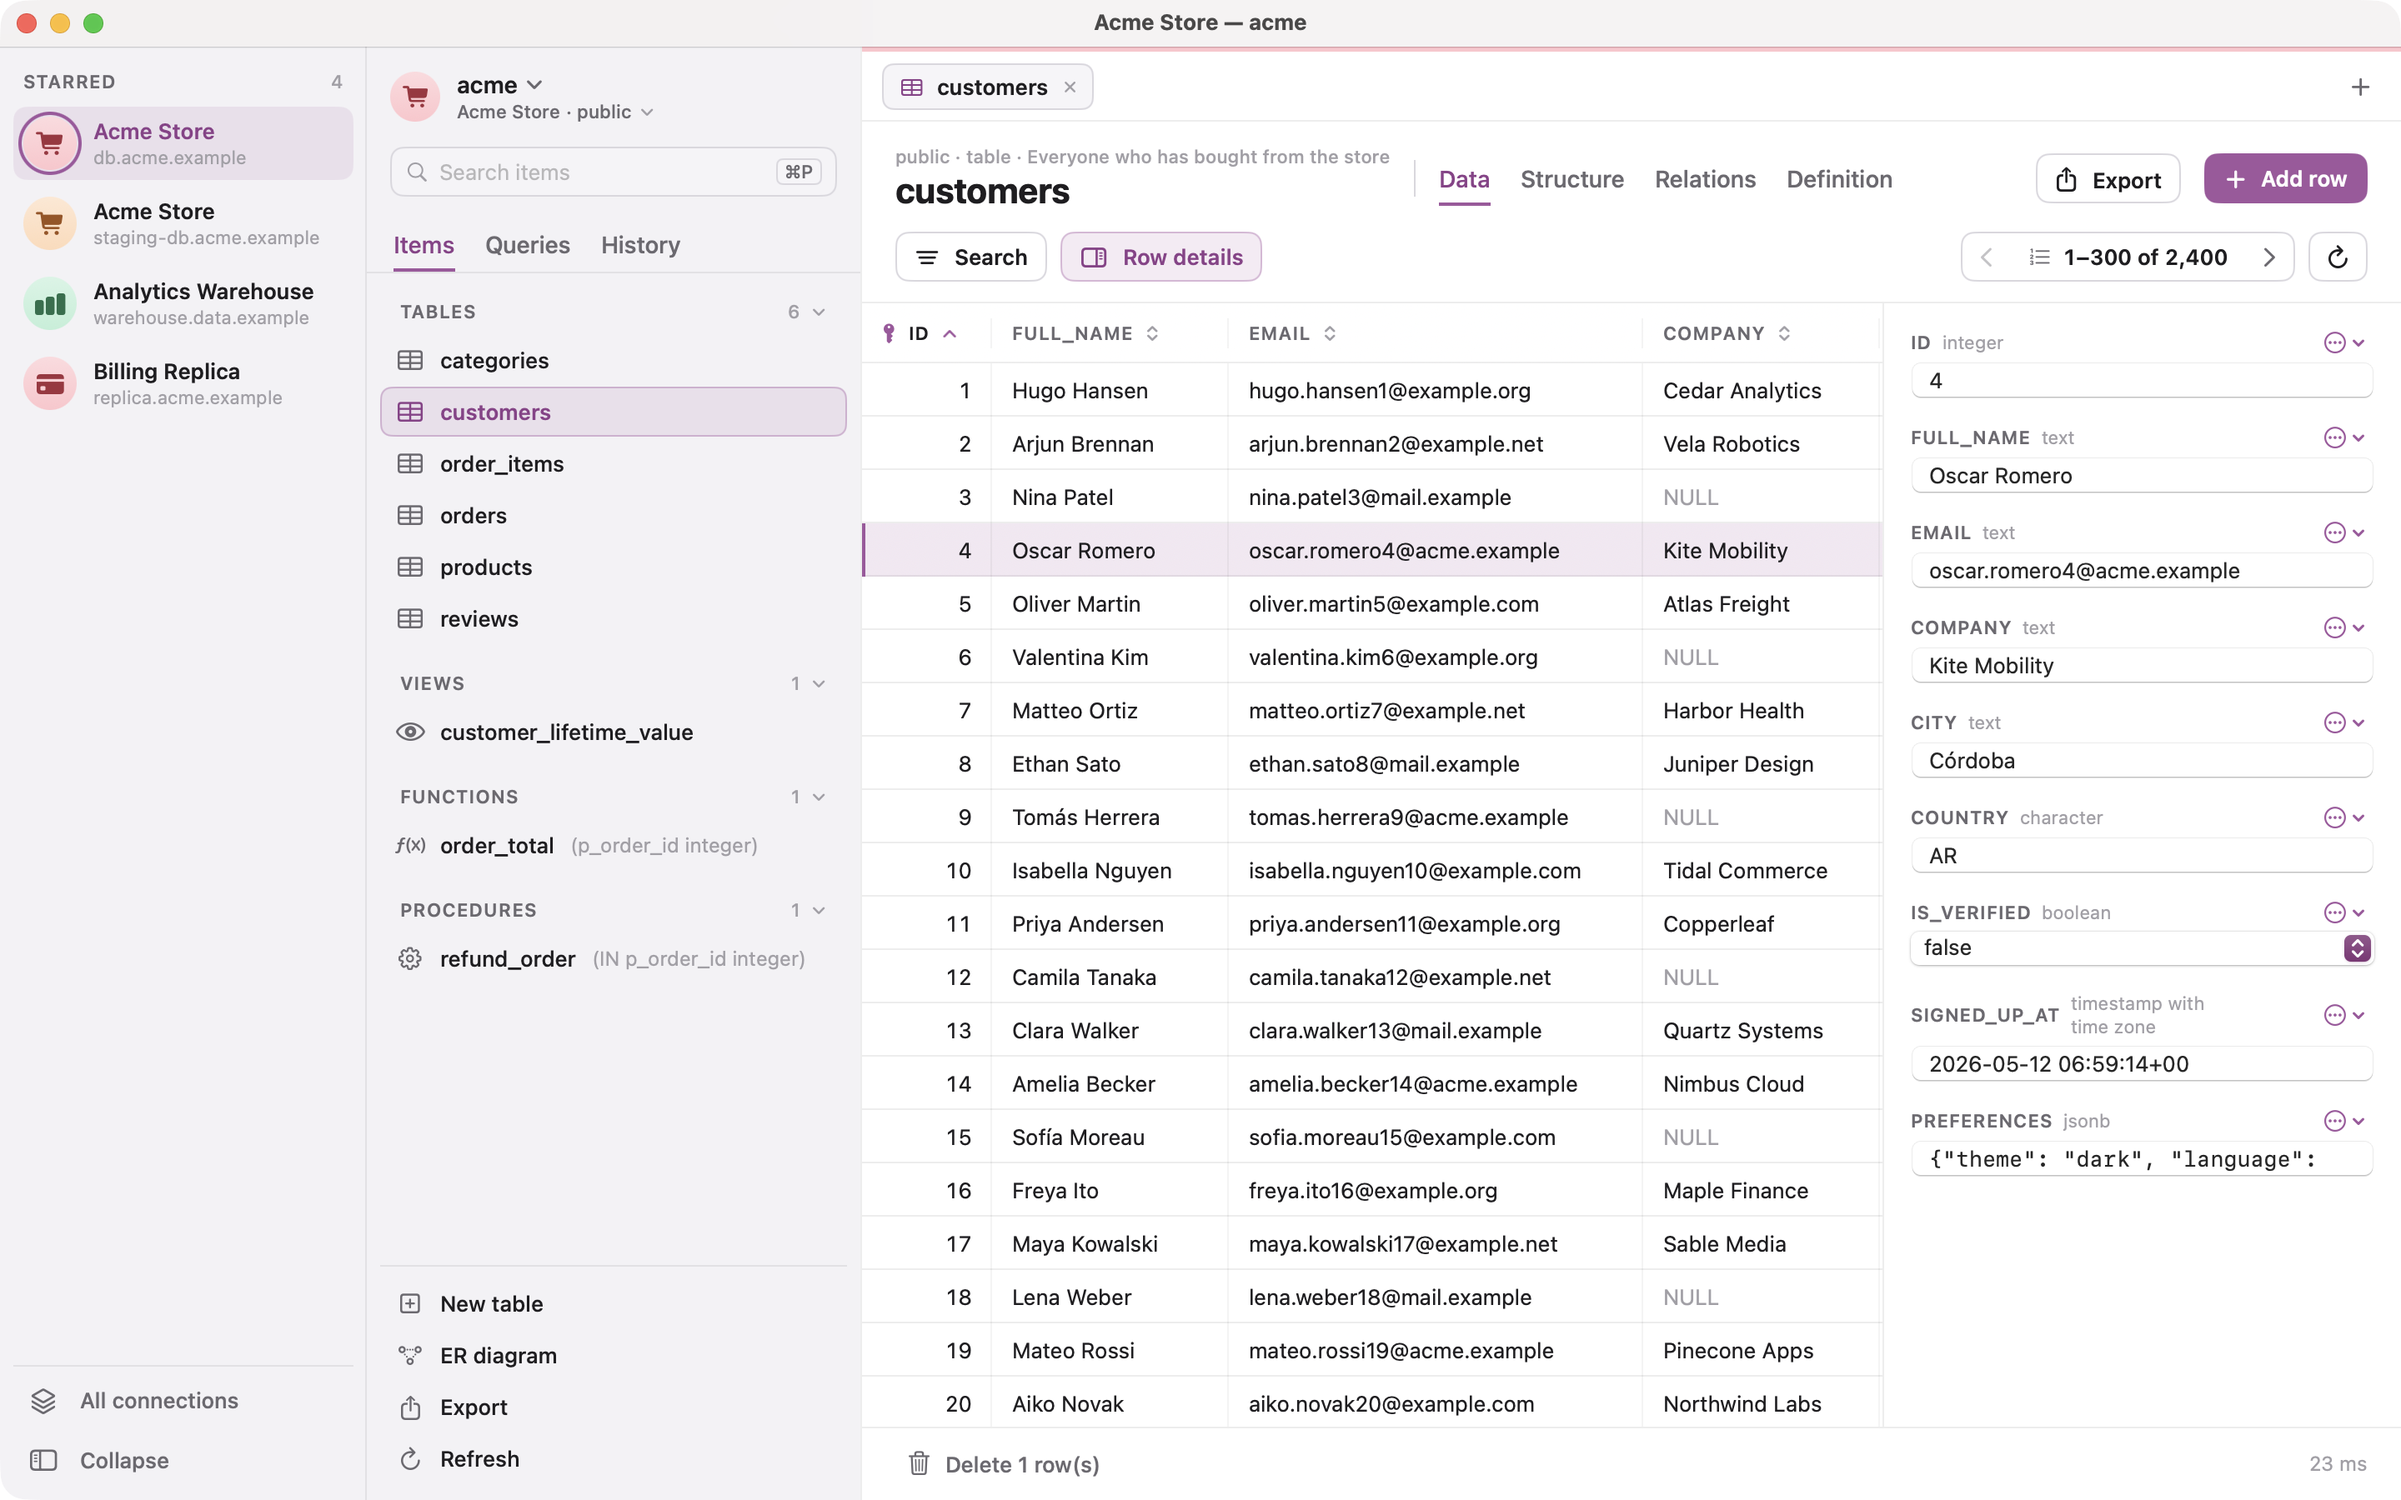
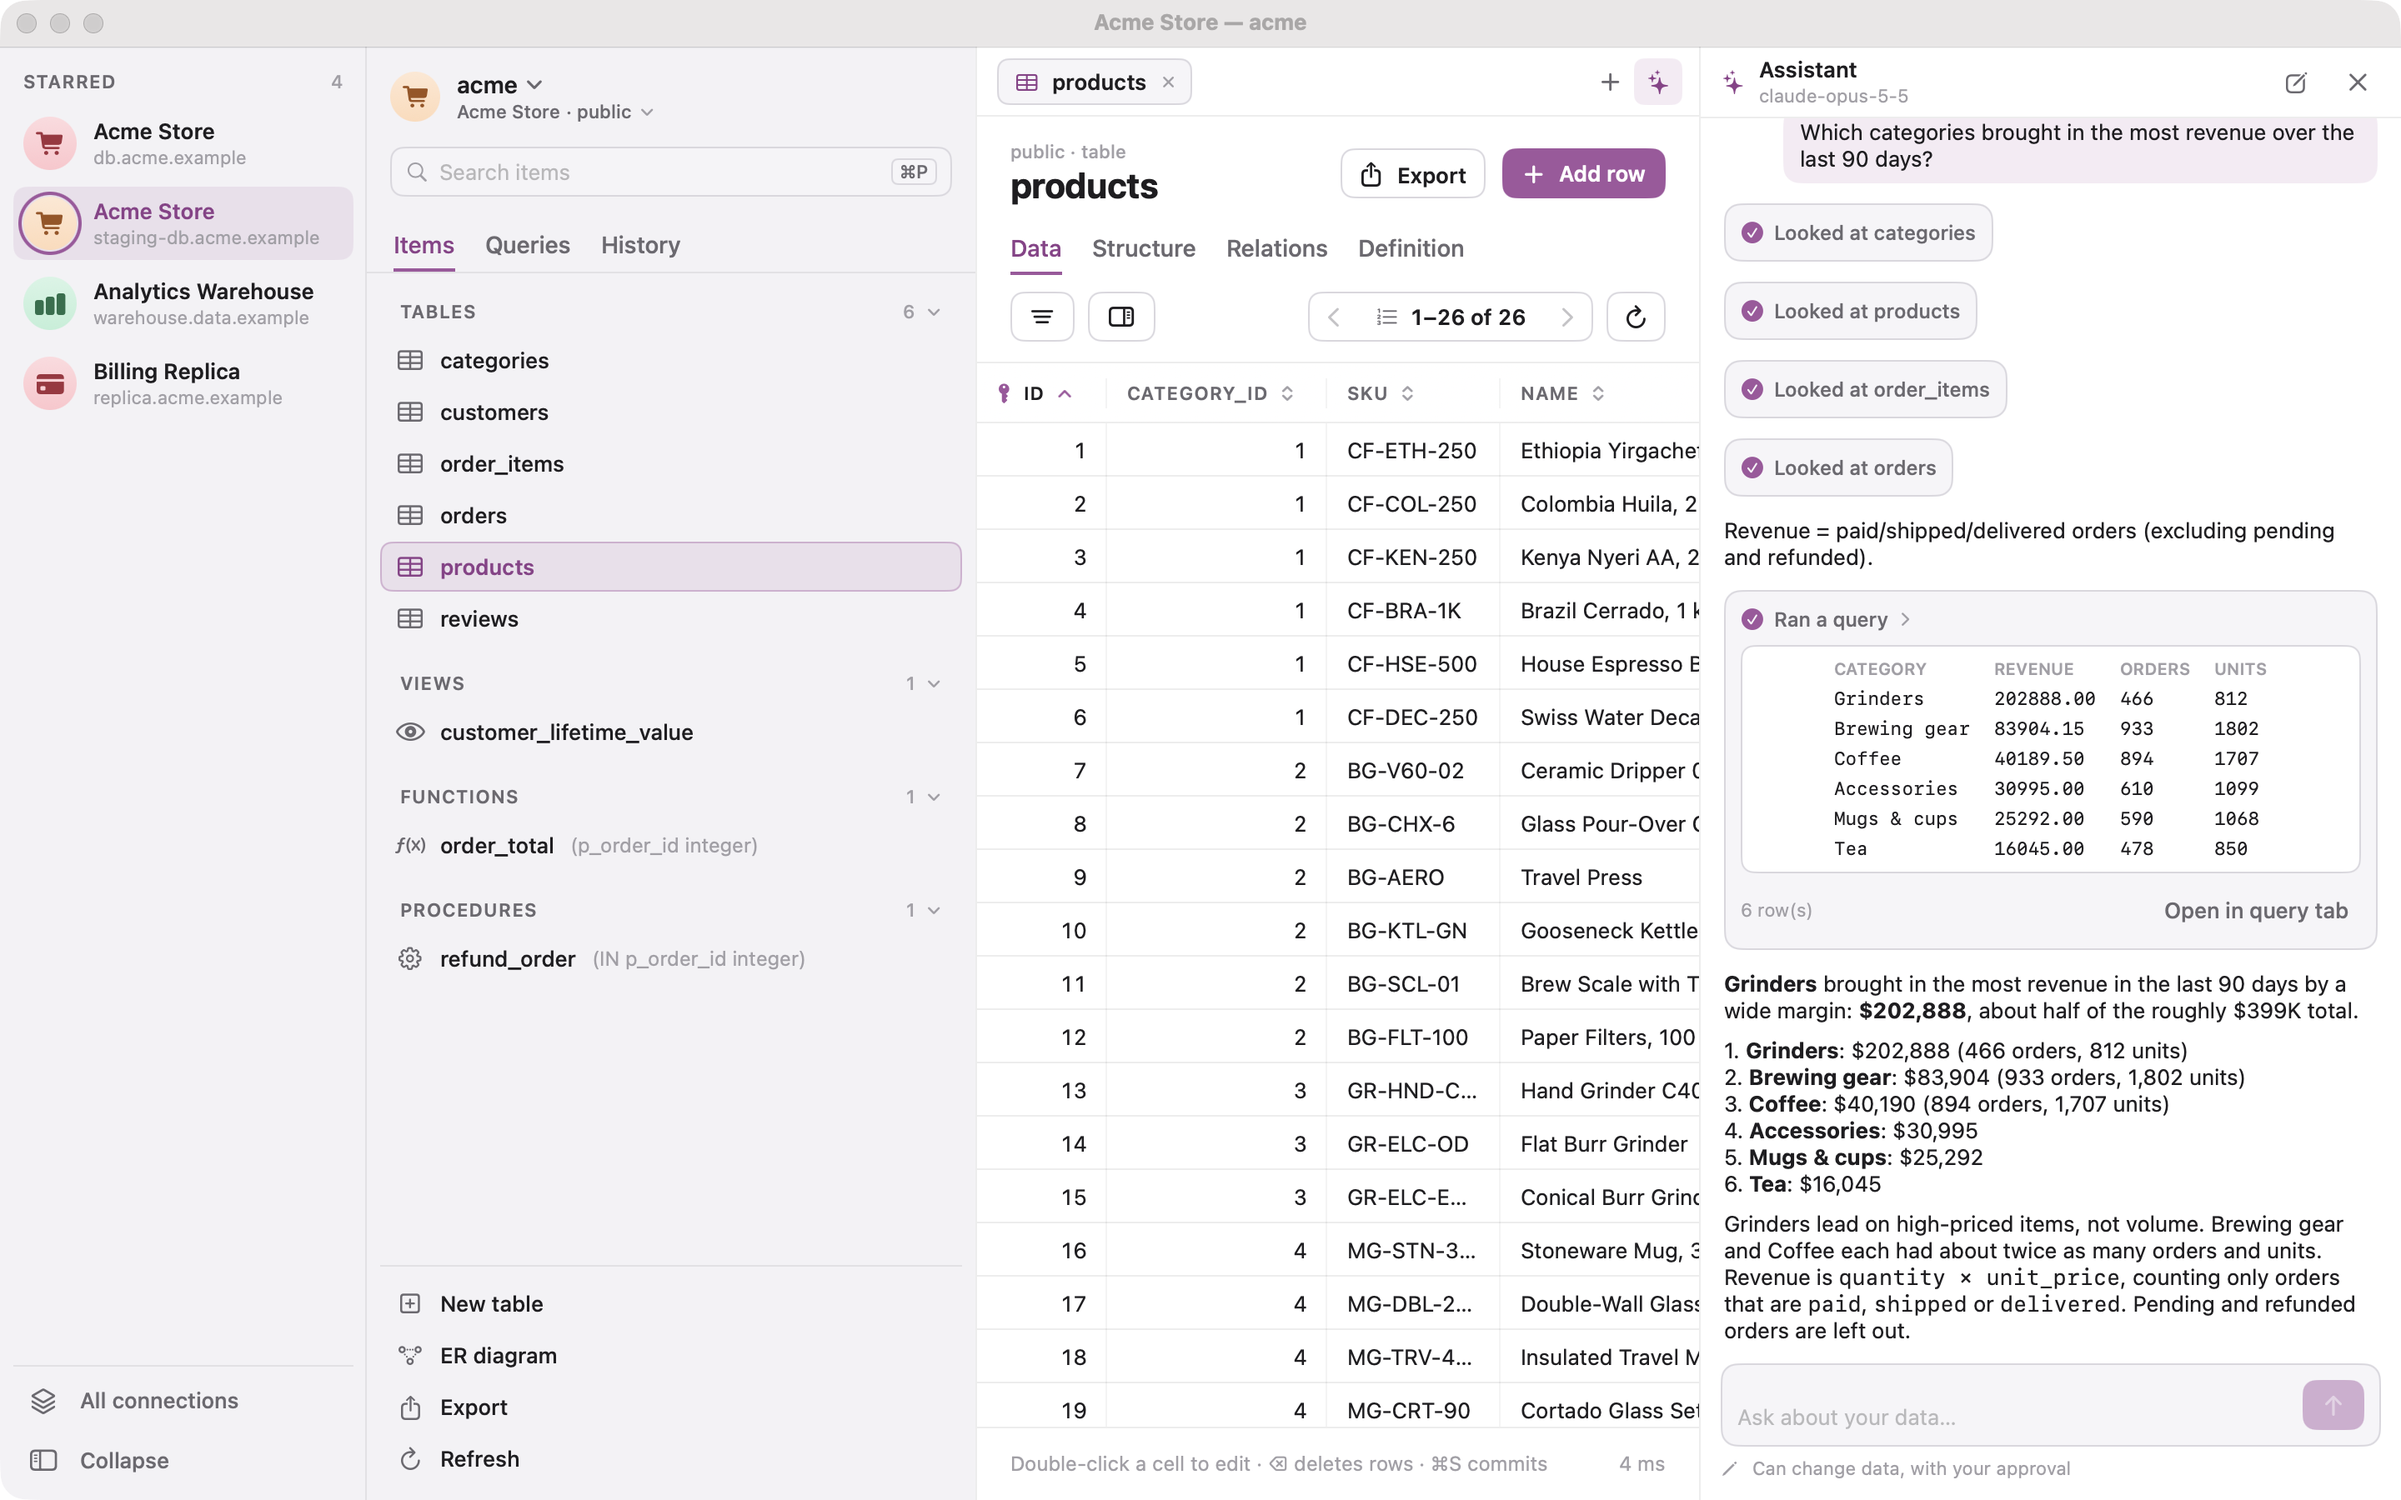
Lead the README and website with the AI assistant
Uses the assistant screenshot in the README, shortens the landing page intro,
and drops the connections screen from the carousel.

diff --git a/appstore/site/dbjoy/index.html b/appstore/site/dbjoy/index.html
@@ -18,9 +18,7 @@
     </div>
   </header>
 
-  <p>Ask your database anything in plain language and get answers backed by real queries, or describe what you need
-    and get the SQL written for you. Then browse, edit and export in a fast, native app: edits are staged and
-    color-coded, commit in one transaction, and on production DBJoy shows you the SQL before anything runs.</p>
+  <p>Beautifully native, with an AI assistant that answers your questions and writes your SQL.</p>
 
   <p><a class="cta" href="https://github.com/agustind/dbjoy/releases/latest">Download for macOS</a></p>
 
@@ -34,7 +32,6 @@
       <figure><img src="screens/04-sql.webp" width="1440" height="900" loading="lazy" alt="The SQL editor with completion and multiple result sets"></figure>
       <figure><img src="screens/05-diagram.webp" width="1440" height="900" loading="lazy" alt="An ER diagram of a schema"></figure>
       <figure><img src="screens/06-search-dark.webp" width="1440" height="900" loading="lazy" alt="Searching rows by column and operator, in dark mode"></figure>
-      <figure><img src="screens/07-connections.webp" width="1440" height="900" loading="lazy" alt="Saved connections grouped and color-coded by environment"></figure>
       <figure><img src="screens/08-structure-dark.webp" width="1440" height="900" loading="lazy" alt="Editing a table's structure, in dark mode"></figure>
     </div>
     <button class="arrow prev" type="button" aria-label="Previous screenshot">‹</button>

diff --git a/README.md b/README.md
@@ -9,11 +9,13 @@
 </pre>
 </div>
 
-A fast, native macOS client for PostgreSQL. Browse schemas, edit data safely, write SQL and export, all in a
-keyboard-friendly SwiftUI app. More database engines can be added as drivers.
+The AI-first PostgreSQL client for the Mac. Ask questions about your data in plain language and get answers backed
+by real queries, or have the SQL written for you, with your own Anthropic or OpenAI key. Then browse schemas, edit
+data safely, write SQL and export, all in a fast, keyboard-friendly SwiftUI app. More database engines can be added
+as drivers.
 
 <p align="center">
-  <img src="screenshot.png" alt="DBJoy browsing a customers table, with the row details panel open" width="720">
+  <img src="screenshot.png" alt="DBJoy's AI assistant answering which categories brought in the most revenue, next to the products table" width="720">
 </p>
 
 ## Install
@@ -25,6 +27,18 @@ drag **DBJoy** to Applications. Builds are signed with a Developer ID and notari
 - Self-contained: libpq and pg_dump (for backups) ship inside the app
 
 ## Features
+
+### AI assistant
+- Ask about your data in plain language (⌘J): the assistant looks up table structures, runs queries and answers
+  with the results, shown inline in the chat
+- Ask it to write SQL and it opens the query in a new tab for you to review, run or save
+- Chats are saved automatically per connection; reopen one to pick up where you left off, and organize them in
+  folders (drag a chat onto a folder, or use its context menu to rename, move or delete it)
+- Bring your own Anthropic or OpenAI API key (Settings → AI Assistant); keys are stored in the macOS Keychain, and the
+  model is configurable
+- Read-only by default: its queries run in read-only transactions. Turn on **Allow the assistant to change data** to
+  let it run INSERT/UPDATE/DELETE and schema changes, each in one transaction, with an approval step before each change
+  (always on production connections; never on read-only connections)
 
 ### Connections
 - Saved connections grouped into folders and tagged by environment: local, development, testing, staging, production
@@ -73,18 +87,6 @@ drag **DBJoy** to Applications. Builds are signed with a Developer ID and notari
 - Saved queries (per connection or shared) and per-connection history
 - Open `.sql` files (⌘O, or drag them onto a query tab) and optionally run them right away; Run SQL File… (⇧⌘O)
   opens and runs in one step. psql-only commands such as `\connect` or `\copy` are flagged before anything runs
-
-### AI assistant
-- Ask about your data in plain language (⌘J): the assistant looks up table structures, runs queries and answers
-  with the results, shown inline in the chat
-- Ask it to write SQL and it opens the query in a new tab for you to review, run or save
-- Chats are saved automatically per connection; reopen one to pick up where you left off, and organize them in
-  folders (drag a chat onto a folder, or use its context menu to rename, move or delete it)
-- Bring your own Anthropic or OpenAI API key (Settings → AI Assistant); keys are stored in the macOS Keychain, and the
-  model is configurable
-- Read-only by default: its queries run in read-only transactions. Turn on **Allow the assistant to change data** to
-  let it run INSERT/UPDATE/DELETE and schema changes, each in one transaction, with an approval step before each change
-  (always on production connections; never on read-only connections)
 
 ### Export
 - CSV or JSON (one file per table), or SQL `INSERT`s (one file, ordered by foreign keys, sequences reset)
